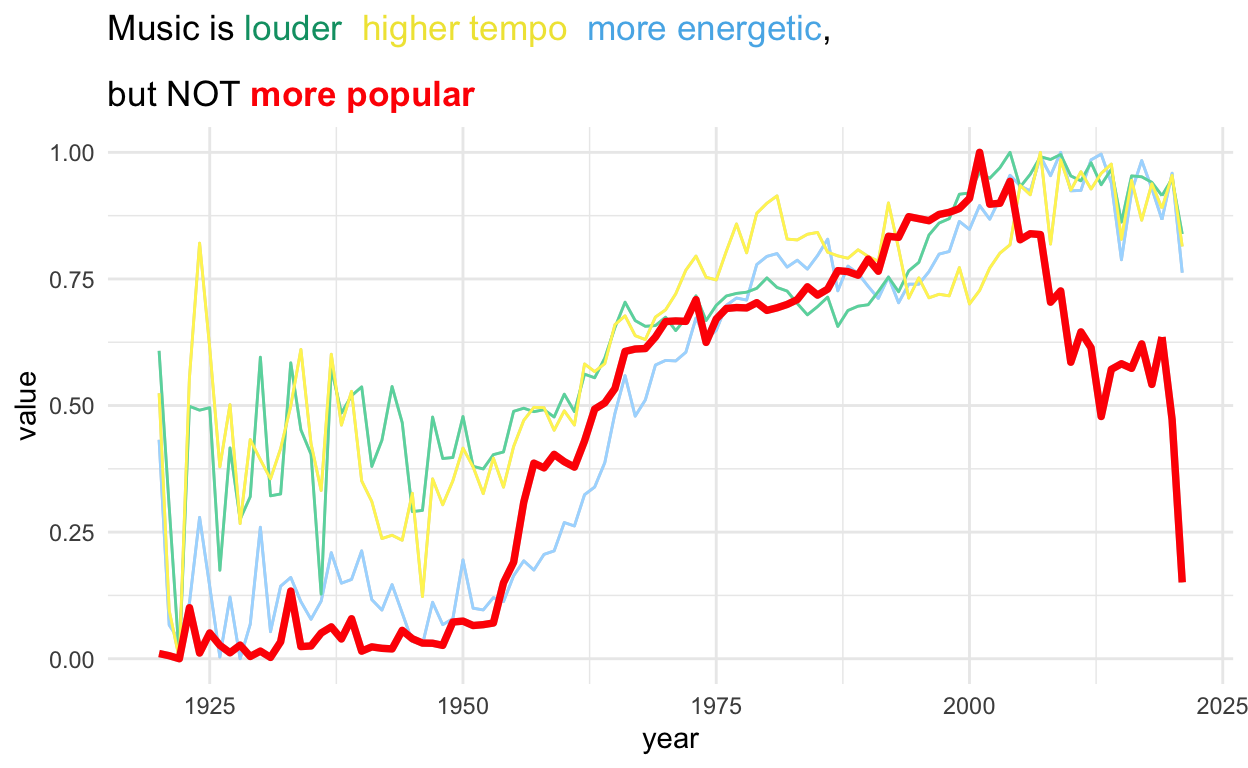
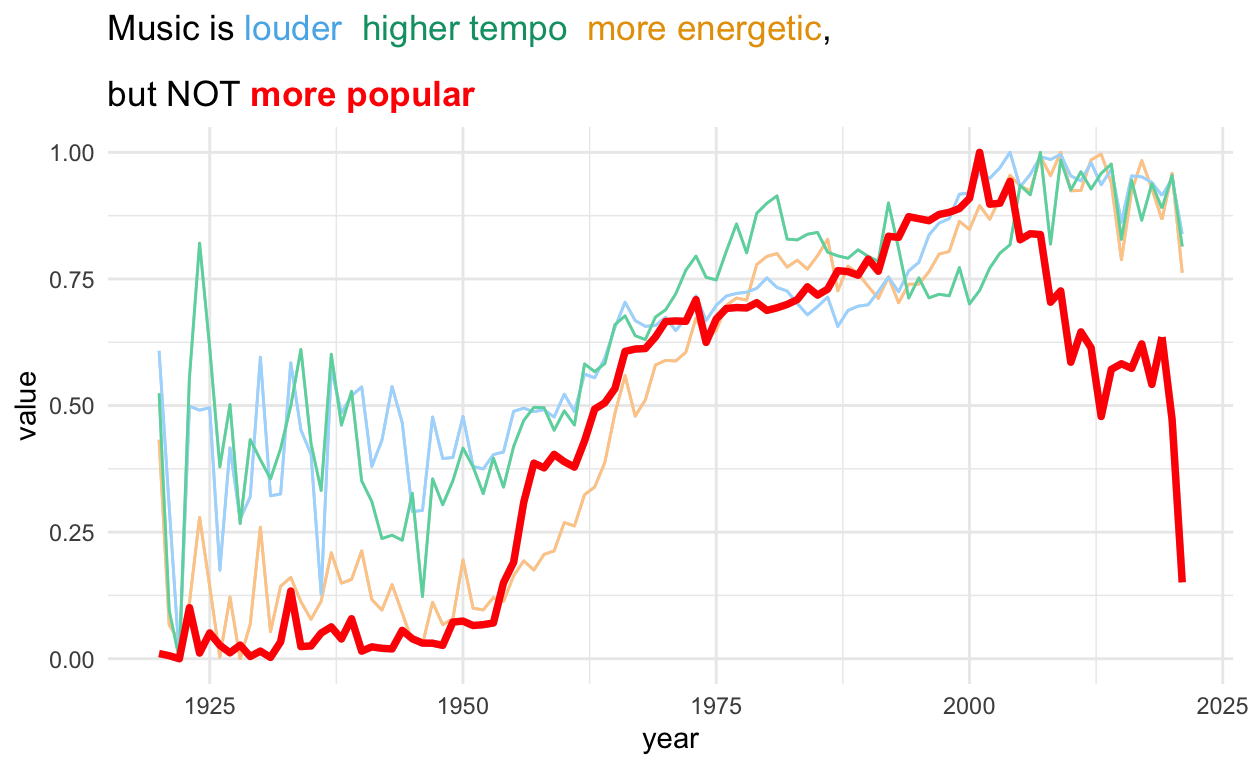
figure 2

diff --git a/_posts/2021-03-05-how-does-music-change-over-time/how-does-music-change-over-time.html b/_posts/2021-03-05-how-does-music-change-over-time/how-does-music-change-over-time.html
@@ -1555,7 +1555,9 @@ code span.wa { color: #5e5e5e; font-style: italic; } /* Warning */
 <h1 id="final-visualization">Final Visualization:</h1>
 <div class="layout-chunk" data-layout="l-body-outset">
 <div class="sourceCode">
-<pre class="sourceCode r"><code class="sourceCode r"><span class='fu'>ggplot</span><span class='op'>(</span><span class='va'>fig2_data3</span>, <span class='fu'><a href='https://ggplot2.tidyverse.org/reference/aes.html'>aes</a></span><span class='op'>(</span>x<span class='op'>=</span><span class='va'>year</span>, y<span class='op'>=</span><span class='va'>value</span><span class='op'>)</span><span class='op'>)</span> <span class='op'>+</span> 
+<pre class="sourceCode r"><code class="sourceCode r"><span class='fu'>ggplot</span><span class='op'>(</span><span class='va'>fig2_data3</span> <span class='op'>%&gt;%</span> 
+         <span class='fu'><a href='https://rdrr.io/r/stats/filter.html'>filter</a></span><span class='op'>(</span><span class='va'>property</span><span class='op'>!=</span><span class='st'>"popularity"</span><span class='op'>)</span>,
+       <span class='fu'><a href='https://ggplot2.tidyverse.org/reference/aes.html'>aes</a></span><span class='op'>(</span>x<span class='op'>=</span><span class='va'>year</span>, y<span class='op'>=</span><span class='va'>value</span><span class='op'>)</span><span class='op'>)</span> <span class='op'>+</span> 
   <span class='fu'>geom_line</span><span class='op'>(</span><span class='fu'><a href='https://ggplot2.tidyverse.org/reference/aes.html'>aes</a></span><span class='op'>(</span>color<span class='op'>=</span><span class='va'>property</span><span class='op'>)</span><span class='op'>)</span> <span class='op'>+</span>
   <span class='fu'>geom_line</span><span class='op'>(</span>data<span class='op'>=</span><span class='va'>fig2_data3</span> <span class='op'>%&gt;%</span> 
               <span class='fu'><a href='https://rdrr.io/r/stats/filter.html'>filter</a></span><span class='op'>(</span><span class='va'>property</span><span class='op'>==</span><span class='st'>"popularity"</span><span class='op'>)</span>, 
@@ -1567,16 +1569,16 @@ code span.wa { color: #5e5e5e; font-style: italic; } /* Warning */
   <span class='fu'>theme</span><span class='op'>(</span>plot.title <span class='op'>=</span> <span class='fu'>ggtext</span><span class='fu'>::</span><span class='fu'><a href='https://wilkelab.org/ggtext/reference/element_markdown.html'>element_markdown</a></span><span class='op'>(</span><span class='op'>)</span>,
         legend.position <span class='op'>=</span> <span class='st'>"none"</span><span class='op'>)</span><span class='op'>+</span>
   <span class='fu'>labs</span><span class='op'>(</span>title <span class='op'>=</span> <span class='st'>"Music is 
-  &lt;span style = 'color: #029E73'&gt;louder&lt;/span&gt; 
-  &lt;span style = 'color: #F0E442'&gt;higher tempo&lt;/span&gt; 
-  &lt;span style = 'color: #57B4E9'&gt;more energetic&lt;/span&gt;,\n
+  &lt;span style = 'color: #57B4E9'&gt;louder&lt;/span&gt; 
+  &lt;span style = 'color: #029E73'&gt;higher tempo&lt;/span&gt; 
+  &lt;span style = 'color: #E69F00'&gt;more energetic&lt;/span&gt;,\n
   but NOT
   &lt;span style = 'color: #FF2500'&gt;**more popular**&lt;/span&gt;"</span><span class='op'>)</span>
 </code></pre>
 </div>
 <p><img src="how-does-music-change-over-time_files/figure-html5/unnamed-chunk-3-1.png" width="624" /></p>
 </div>
-<p>legend.position = “none” # Attempt 1:</p>
+<h1 id="attempt-1">Attempt 1:</h1>
 <div class="layout-chunk" data-layout="l-body">
 <div class="sourceCode">
 <pre class="sourceCode r"><code class="sourceCode r"><span class='fu'>ggplot</span><span class='op'>(</span><span class='va'>fig2_data</span>, <span class='fu'><a href='https://ggplot2.tidyverse.org/reference/aes.html'>aes</a></span><span class='op'>(</span>x<span class='op'>=</span><span class='va'>decades</span>, y<span class='op'>=</span><span class='va'>property</span>, fill<span class='op'>=</span><span class='va'>mean</span><span class='op'>)</span><span class='op'>)</span> <span class='op'>+</span> <span class='fu'>geom_tile</span><span class='op'>(</span><span class='op'>)</span> <span class='op'>+</span>
@@ -1600,7 +1602,7 @@ code span.wa { color: #5e5e5e; font-style: italic; } /* Warning */
 </div>
 <p><img src="how-does-music-change-over-time_files/figure-html5/unnamed-chunk-5-1.png" width="624" /></p>
 </div>
-<p>I realized there is another dataset that is already ranked by year, so I thought I would try to clean that dataset and see if that works better. I also take a look at a lot more properties just to see what properties changes more or are more interesting. I end up thinking I should try to take in the characteristics that are interesting and make sense. E.g. there are 3 increase (energy, loudness, tempo), but they are kind of inter-related. There are also 3 decrease (acousticness, instrumentalness, speechiness) that might be inter-related. Otherwise, popularity and duration could be interesting as well.</p>
+<p>I realized there is another dataset that is already ranked by year, so I thought I would try to clean that dataset and see if that works better. I also take a look at a lot more properties just to see what properties changes more or are more interesting. I end up thinking I should try to take in the characteristics that are interesting and tell a story. E.g. I found 3 increasing (energy, loudness, tempo) properties as well as 3 decreasing (acousticness, instrumentalness, speechiness) pnes. Popularity and duration are something that people are generally interested in as well.</p>
 <div class="sourceCode" id="cb1"><pre class="sourceCode r distill-force-highlighting-css"><code class="sourceCode r"></code></pre></div>
 <!--radix_placeholder_article_footer-->
 <!--/radix_placeholder_article_footer-->

diff --git a/docs/posts/2021-03-05-how-does-music-change-over-time/index.html b/docs/posts/2021-03-05-how-does-music-change-over-time/index.html
@@ -2536,7 +2536,9 @@ Project
 <h1 id="final-visualization">Final Visualization:</h1>
 <div class="layout-chunk" data-layout="l-body-outset">
 <div class="sourceCode">
-<pre class="sourceCode r"><code class="sourceCode r"><span class='fu'>ggplot</span><span class='op'>(</span><span class='va'>fig2_data3</span>, <span class='fu'><a href='https://ggplot2.tidyverse.org/reference/aes.html'>aes</a></span><span class='op'>(</span>x<span class='op'>=</span><span class='va'>year</span>, y<span class='op'>=</span><span class='va'>value</span><span class='op'>)</span><span class='op'>)</span> <span class='op'>+</span> 
+<pre class="sourceCode r"><code class="sourceCode r"><span class='fu'>ggplot</span><span class='op'>(</span><span class='va'>fig2_data3</span> <span class='op'>%&gt;%</span> 
+         <span class='fu'><a href='https://rdrr.io/r/stats/filter.html'>filter</a></span><span class='op'>(</span><span class='va'>property</span><span class='op'>!=</span><span class='st'>"popularity"</span><span class='op'>)</span>,
+       <span class='fu'><a href='https://ggplot2.tidyverse.org/reference/aes.html'>aes</a></span><span class='op'>(</span>x<span class='op'>=</span><span class='va'>year</span>, y<span class='op'>=</span><span class='va'>value</span><span class='op'>)</span><span class='op'>)</span> <span class='op'>+</span> 
   <span class='fu'>geom_line</span><span class='op'>(</span><span class='fu'><a href='https://ggplot2.tidyverse.org/reference/aes.html'>aes</a></span><span class='op'>(</span>color<span class='op'>=</span><span class='va'>property</span><span class='op'>)</span><span class='op'>)</span> <span class='op'>+</span>
   <span class='fu'>geom_line</span><span class='op'>(</span>data<span class='op'>=</span><span class='va'>fig2_data3</span> <span class='op'>%&gt;%</span> 
               <span class='fu'><a href='https://rdrr.io/r/stats/filter.html'>filter</a></span><span class='op'>(</span><span class='va'>property</span><span class='op'>==</span><span class='st'>"popularity"</span><span class='op'>)</span>, 
@@ -2548,16 +2550,16 @@ Project
   <span class='fu'>theme</span><span class='op'>(</span>plot.title <span class='op'>=</span> <span class='fu'>ggtext</span><span class='fu'>::</span><span class='fu'><a href='https://wilkelab.org/ggtext/reference/element_markdown.html'>element_markdown</a></span><span class='op'>(</span><span class='op'>)</span>,
         legend.position <span class='op'>=</span> <span class='st'>"none"</span><span class='op'>)</span><span class='op'>+</span>
   <span class='fu'>labs</span><span class='op'>(</span>title <span class='op'>=</span> <span class='st'>"Music is 
-  &lt;span style = 'color: #029E73'&gt;louder&lt;/span&gt; 
-  &lt;span style = 'color: #F0E442'&gt;higher tempo&lt;/span&gt; 
-  &lt;span style = 'color: #57B4E9'&gt;more energetic&lt;/span&gt;,\n
+  &lt;span style = 'color: #57B4E9'&gt;louder&lt;/span&gt; 
+  &lt;span style = 'color: #029E73'&gt;higher tempo&lt;/span&gt; 
+  &lt;span style = 'color: #E69F00'&gt;more energetic&lt;/span&gt;,\n
   but NOT
   &lt;span style = 'color: #FF2500'&gt;**more popular**&lt;/span&gt;"</span><span class='op'>)</span>
 </code></pre>
 </div>
 <p><img src="how-does-music-change-over-time_files/figure-html5/unnamed-chunk-3-1.png" width="624" /></p>
 </div>
-<p>legend.position = “none” # Attempt 1:</p>
+<h1 id="attempt-1">Attempt 1:</h1>
 <div class="layout-chunk" data-layout="l-body">
 <div class="sourceCode">
 <pre class="sourceCode r"><code class="sourceCode r"><span class='fu'>ggplot</span><span class='op'>(</span><span class='va'>fig2_data</span>, <span class='fu'><a href='https://ggplot2.tidyverse.org/reference/aes.html'>aes</a></span><span class='op'>(</span>x<span class='op'>=</span><span class='va'>decades</span>, y<span class='op'>=</span><span class='va'>property</span>, fill<span class='op'>=</span><span class='va'>mean</span><span class='op'>)</span><span class='op'>)</span> <span class='op'>+</span> <span class='fu'>geom_tile</span><span class='op'>(</span><span class='op'>)</span> <span class='op'>+</span>
@@ -2581,7 +2583,7 @@ Project
 </div>
 <p><img src="how-does-music-change-over-time_files/figure-html5/unnamed-chunk-5-1.png" width="624" /></p>
 </div>
-<p>I realized there is another dataset that is already ranked by year, so I thought I would try to clean that dataset and see if that works better. I also take a look at a lot more properties just to see what properties changes more or are more interesting. I end up thinking I should try to take in the characteristics that are interesting and make sense. E.g. there are 3 increase (energy, loudness, tempo), but they are kind of inter-related. There are also 3 decrease (acousticness, instrumentalness, speechiness) that might be inter-related. Otherwise, popularity and duration could be interesting as well.</p>
+<p>I realized there is another dataset that is already ranked by year, so I thought I would try to clean that dataset and see if that works better. I also take a look at a lot more properties just to see what properties changes more or are more interesting. I end up thinking I should try to take in the characteristics that are interesting and tell a story. E.g. I found 3 increasing (energy, loudness, tempo) properties as well as 3 decreasing (acousticness, instrumentalness, speechiness) pnes. Popularity and duration are something that people are generally interested in as well.</p>
 <div class="sourceCode" id="cb1"><pre class="sourceCode r distill-force-highlighting-css"><code class="sourceCode r"></code></pre></div>
 <!--radix_placeholder_article_footer-->
 <!--/radix_placeholder_article_footer-->

diff --git a/docs/about.html b/docs/about.html
@@ -2428,9 +2428,10 @@ Project
 
 <div class="d-article">
 <p>This is Wanjia’s final project for <strong>EDLD652: Data Visualization</strong>.</p>
-<p>If you want to know more about Wanjia, <a href="https://wanjiag.github.io/">click here</a>.</p>
-<p>If you want to know more about the course, <a href="https://dataviz-2021.netlify.app/">click here</a>.</p>
-<p>If you want to see Wanjia’s other homework and assignments, <a href="https://github.com/wanjiag/EDLD652">click here</a>.</p>
+<p>If you want to see the <strong>original dataset</strong> from Kaggle, <a href="https://www.kaggle.com/yamaerenay/spotify-dataset-19212020-160k-tracks">click here</a>.</p>
+<p>If you want to know more about <strong>Wanjia</strong>, <a href="https://wanjiag.github.io/">click here</a>.</p>
+<p>If you want to know more about the <strong>course</strong>, <a href="https://dataviz-2021.netlify.app/">click here</a>.</p>
+<p>If you want to see Wanjia’s other <strong>homework and assignments</strong>, <a href="https://github.com/wanjiag/EDLD652">click here</a>.</p>
 <div class="sourceCode" id="cb1"><pre class="sourceCode r distill-force-highlighting-css"><code class="sourceCode r"></code></pre></div>
 <!--radix_placeholder_article_footer-->
 <!--/radix_placeholder_article_footer-->
